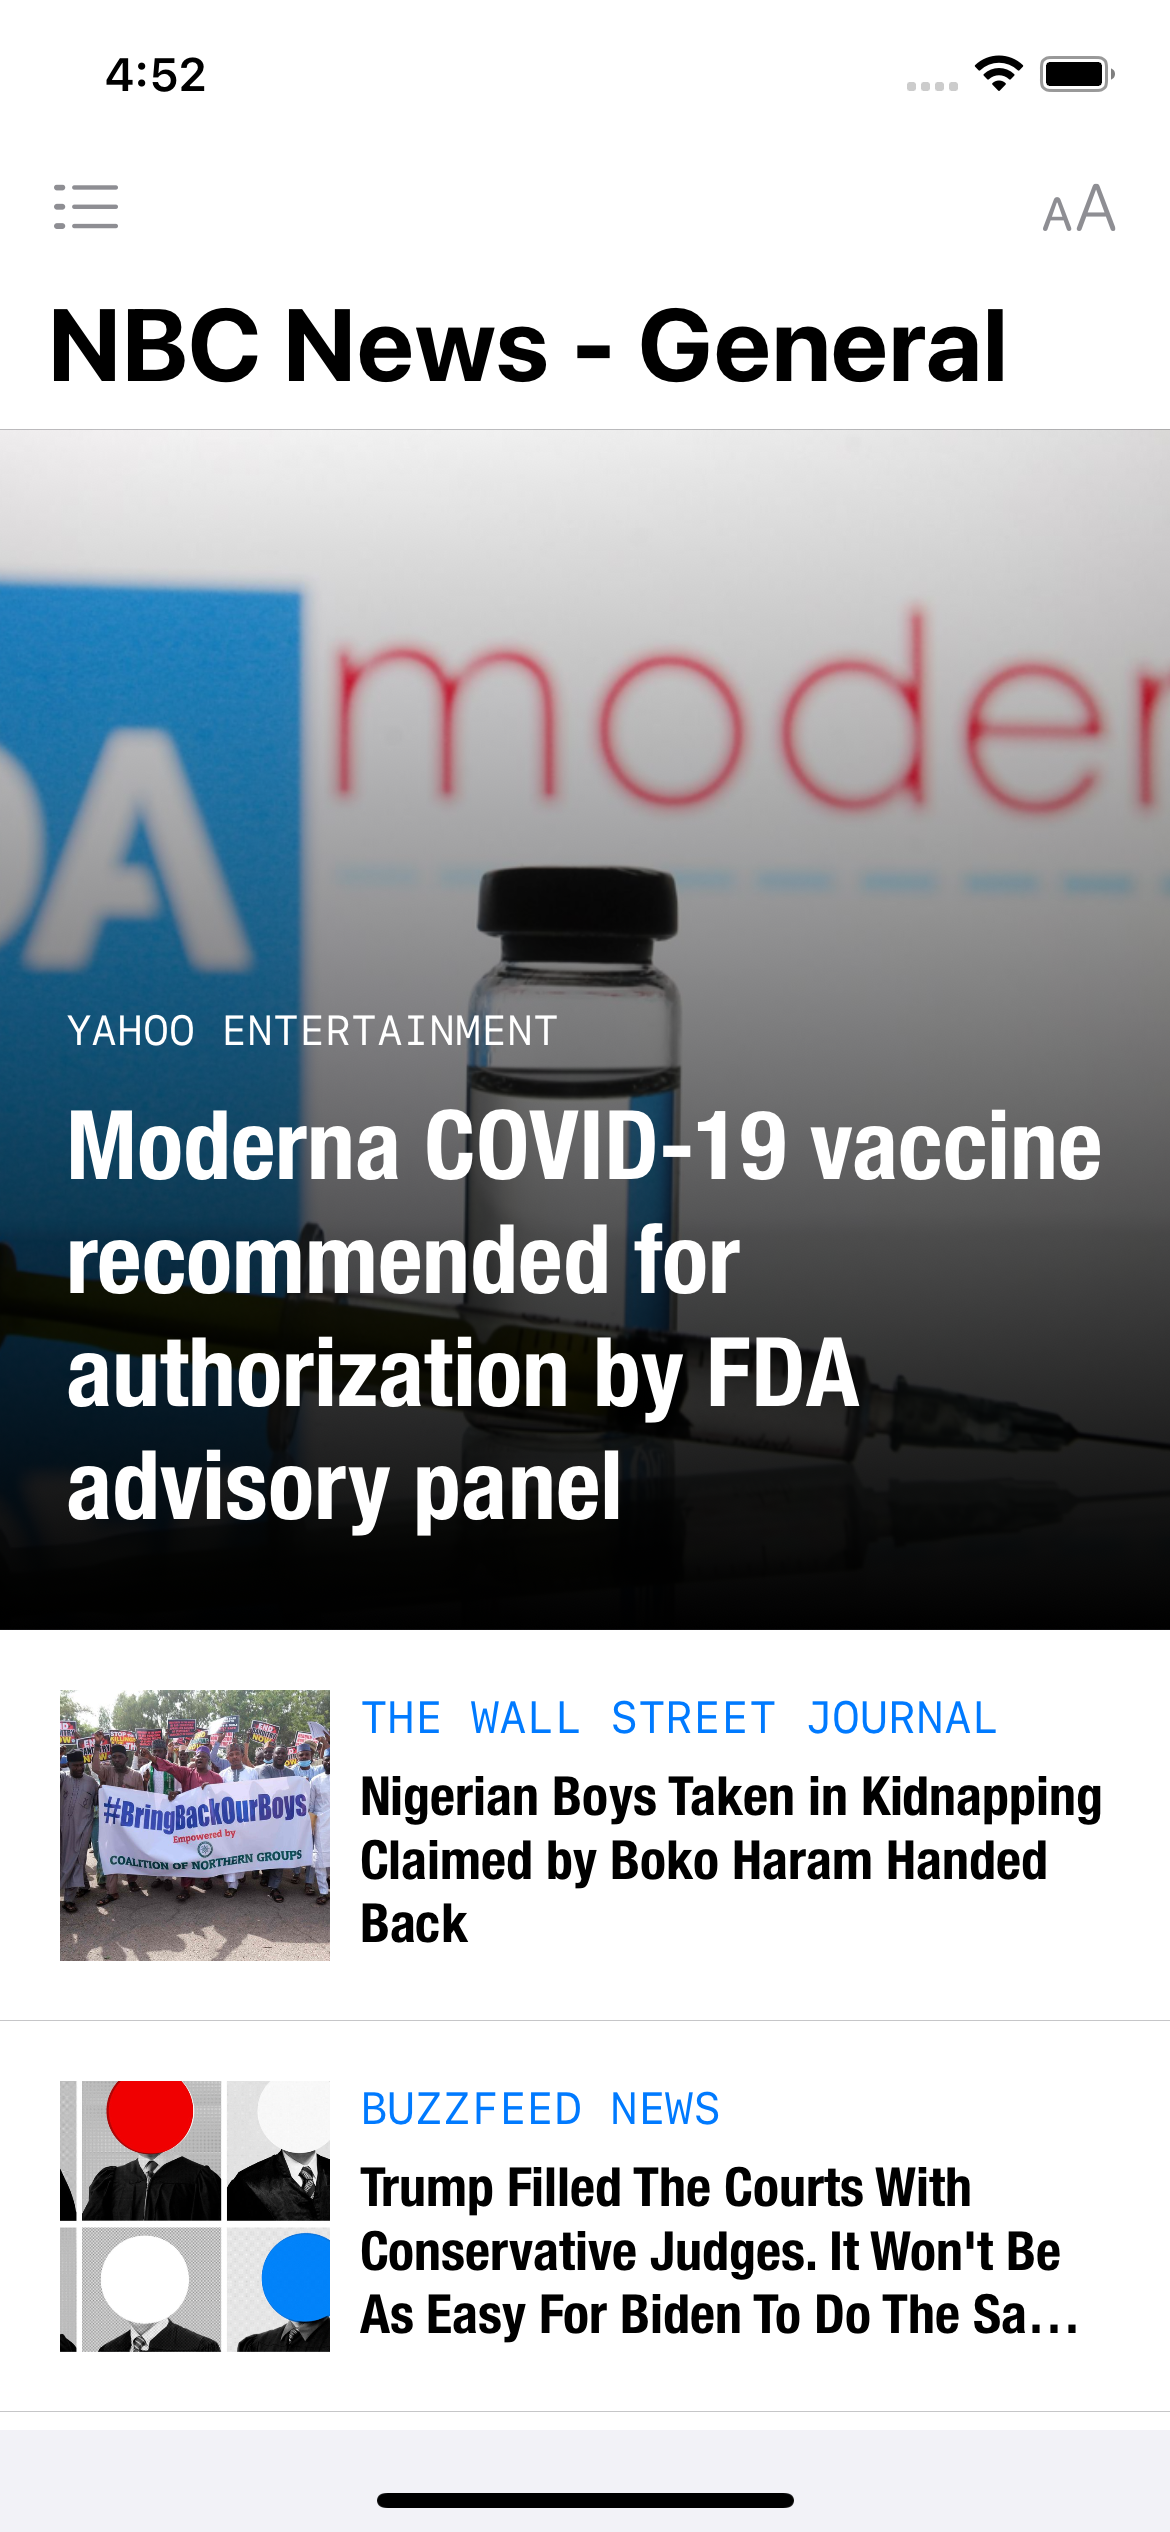
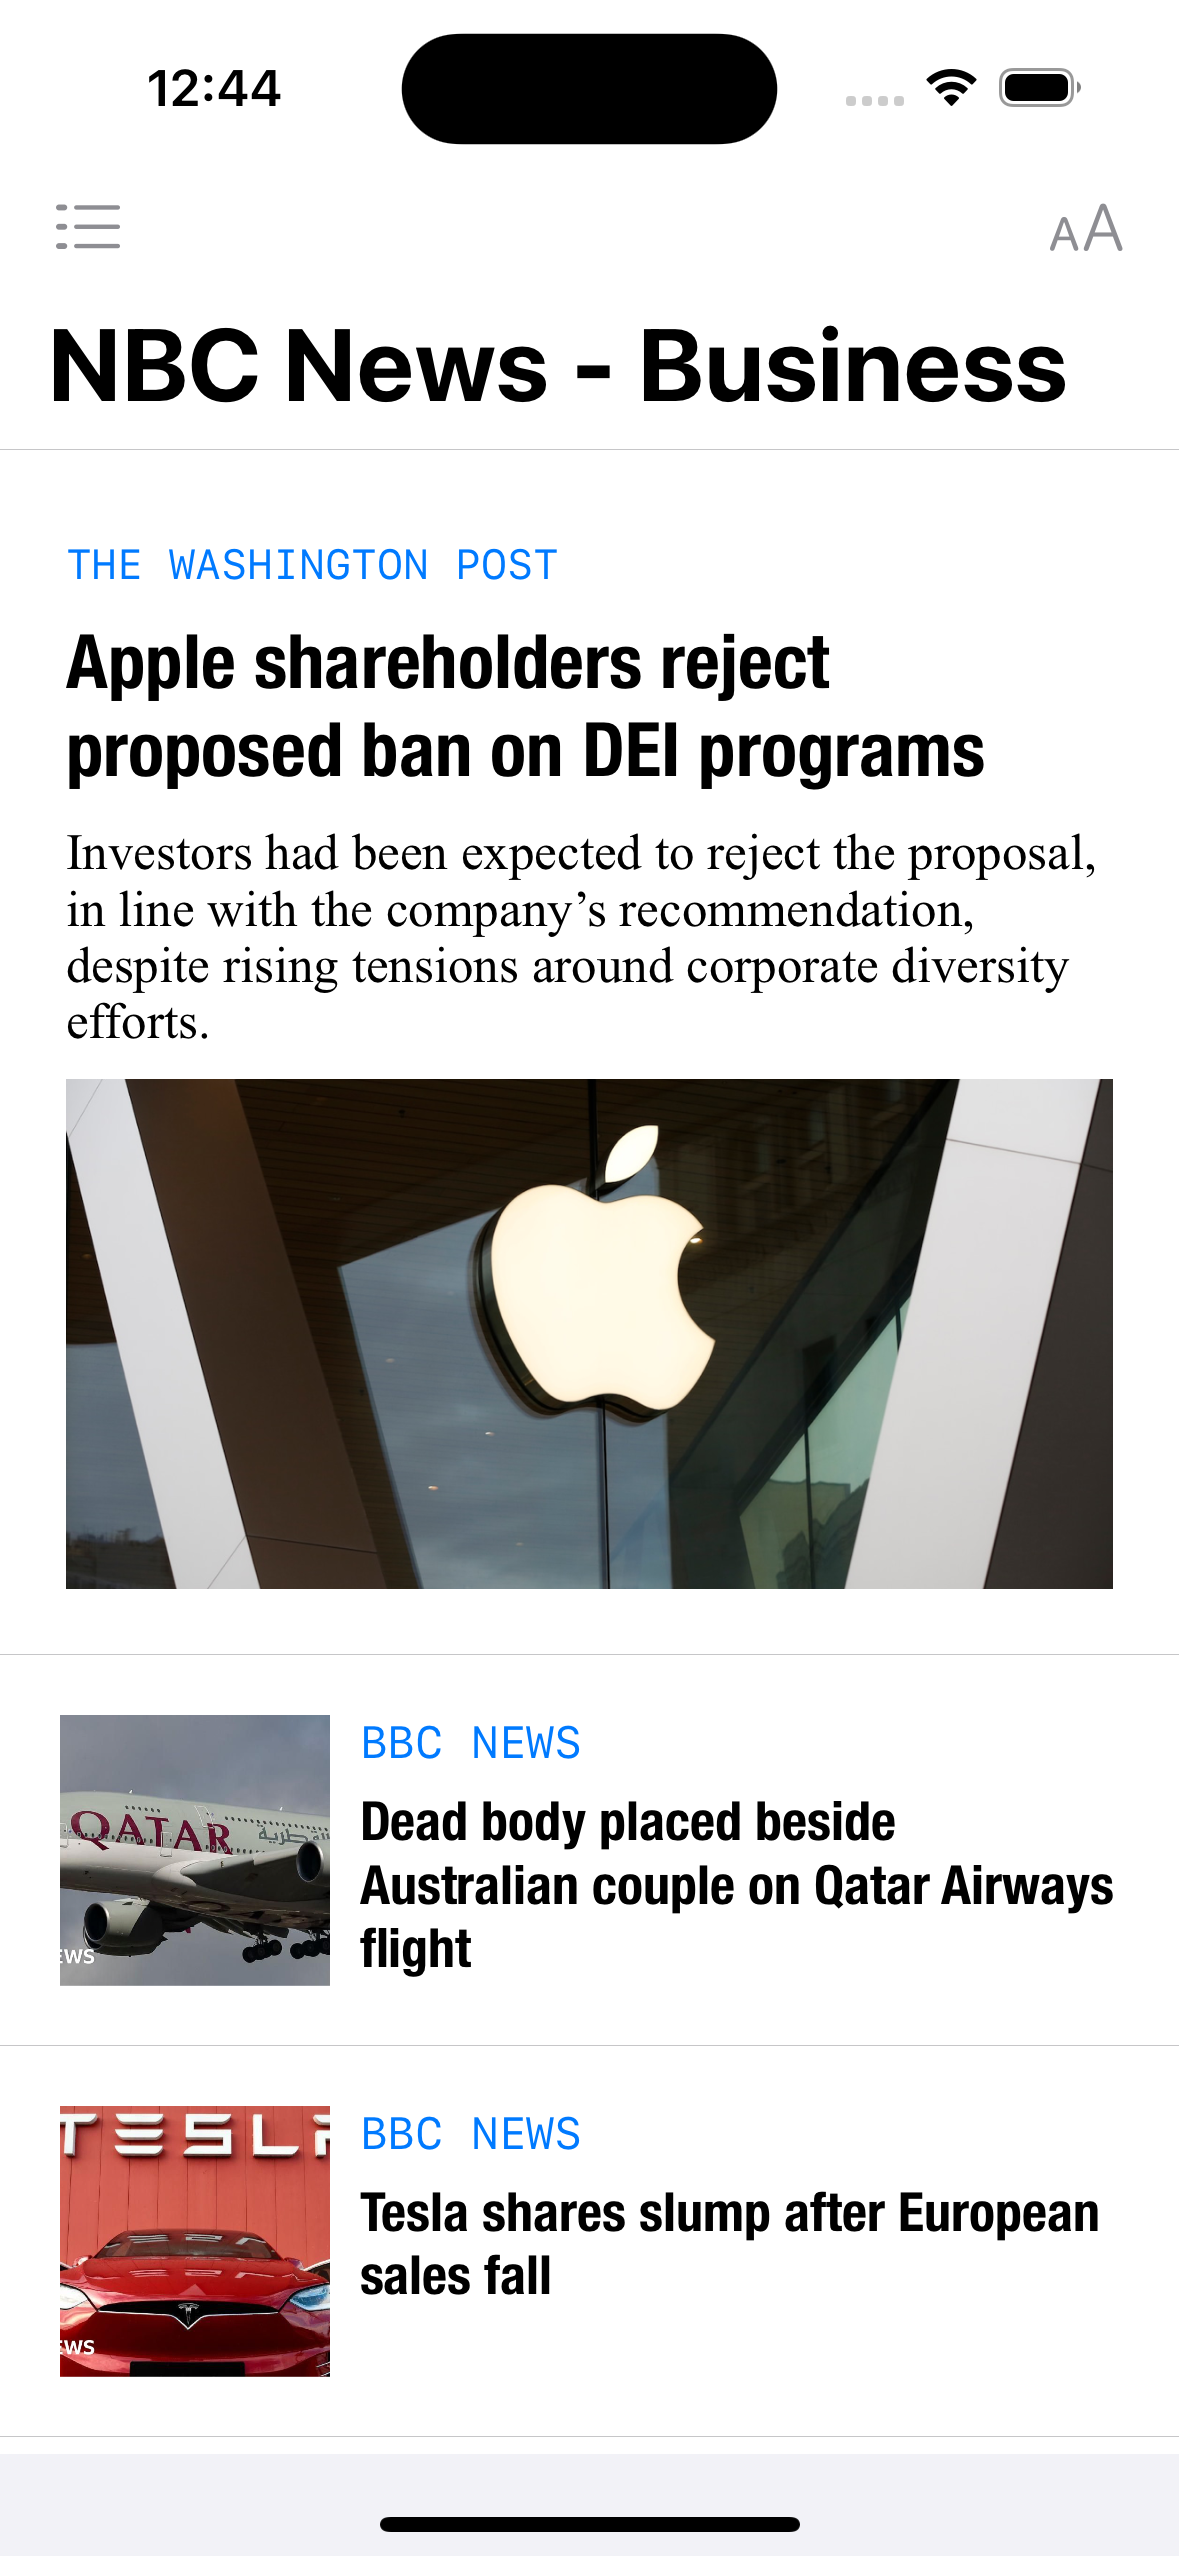
Update NBC News

diff --git a/Xcode/TheNews/Views/NBCNews/NBCNewsCellLarge.swift b/Xcode/TheNews/Views/NBCNews/NBCNewsCellLarge.swift
@@ -14,32 +14,38 @@ class NBCNewsCellLarge: NewsCell {
     override func config() {
         super.config()
 
-        title.font = UIFont(name: "HelveticaNeue-CondensedBold", size: 32)
+        title.font = UIFont(name: "HelveticaNeue-CondensedBold", size: 25)
         title.numberOfLines = 0
-        title.textColor = .white
+        
+        source.textColor = .systemBlue
 
-        source.textColor = .white
-
+        summary.font = UIFont(name: "Times New Roman", size: 17)
+        
         source.font = UIFont.monospacedSystemFont(ofSize: 14, weight: .regular)
 
-        [articleImageView, title, source].forEach {
+        [articleImageView, title, summary, source].forEach {
             contentView.addSubviewForAutoLayout($0)
         }
 
         let inset: CGFloat = 22
         NSLayoutConstraint.activate([
-            articleImageView.topAnchor.constraint(equalTo: contentView.topAnchor),
-            articleImageView.leadingAnchor.constraint(equalTo: contentView.leadingAnchor),
-            articleImageView.heightAnchor.constraint(equalToConstant: NBCNewsCellLarge.imageHeight),
-            contentView.trailingAnchor.constraint(equalTo: articleImageView.trailingAnchor),
-            contentView.bottomAnchor.constraint(equalTo: articleImageView.bottomAnchor),
-
+            source.topAnchor.constraint(equalTo: contentView.topAnchor, constant: 30),
+            source.leadingAnchor.constraint(equalTo: contentView.leadingAnchor, constant: inset),
+            
+            title.topAnchor.constraint(equalTo: source.bottomAnchor, constant: 8),
             title.leadingAnchor.constraint(equalTo: contentView.leadingAnchor, constant: inset),
             contentView.trailingAnchor.constraint(equalTo: title.trailingAnchor, constant: inset),
-            articleImageView.bottomAnchor.constraint(equalTo: title.bottomAnchor, constant: 30),
+            
+            summary.topAnchor.constraint(equalTo: title.bottomAnchor, constant: 10),
+            summary.leadingAnchor.constraint(equalTo: contentView.leadingAnchor, constant: inset),
+            contentView.trailingAnchor.constraint(equalTo: summary.trailingAnchor, constant: inset),
 
-            source.leadingAnchor.constraint(equalTo: contentView.leadingAnchor, constant: inset),
-            title.topAnchor.constraint(equalTo: source.bottomAnchor, constant: 10)
+            articleImageView.topAnchor.constraint(equalTo: summary.bottomAnchor, constant: 10),
+            articleImageView.leadingAnchor.constraint(equalTo: contentView.leadingAnchor, constant: inset),
+            contentView.trailingAnchor.constraint(equalTo: articleImageView.trailingAnchor, constant: inset),
+            articleImageView.heightAnchor.constraint(equalToConstant: 170),
+            
+            contentView.bottomAnchor.constraint(equalTo: articleImageView.bottomAnchor, constant: inset)
         ])
 
     }
@@ -47,10 +53,8 @@ class NBCNewsCellLarge: NewsCell {
     func load(article: Article) {
         title.text = article.titleDisplay
         source.text = article.source?.name?.uppercased()
-
-        articleImageView.load(urlString: article.urlToImage, downloader: ImageDownloader.shared) { [weak self] in
-            self?.articleImageView.addGradient(count: 0, index: 0)
-        }
+        summary.text = article.descriptionOrContent
+        articleImageView.load(urlString: article.urlToImage, downloader: ImageDownloader.shared)
     }
 
 }
